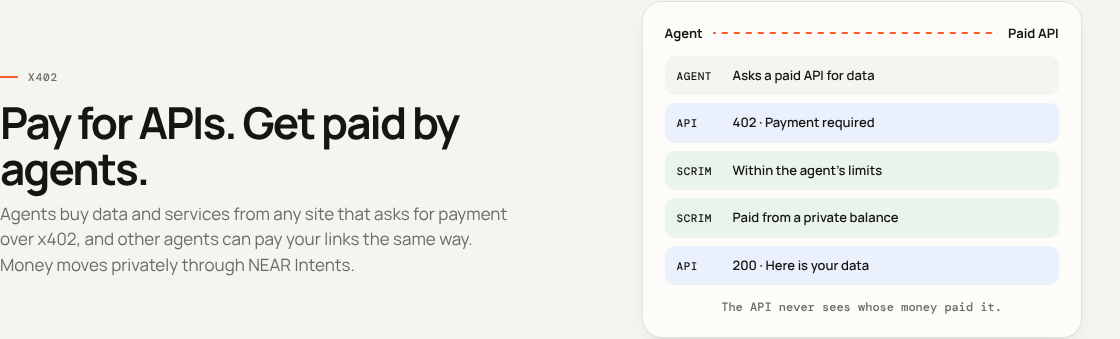
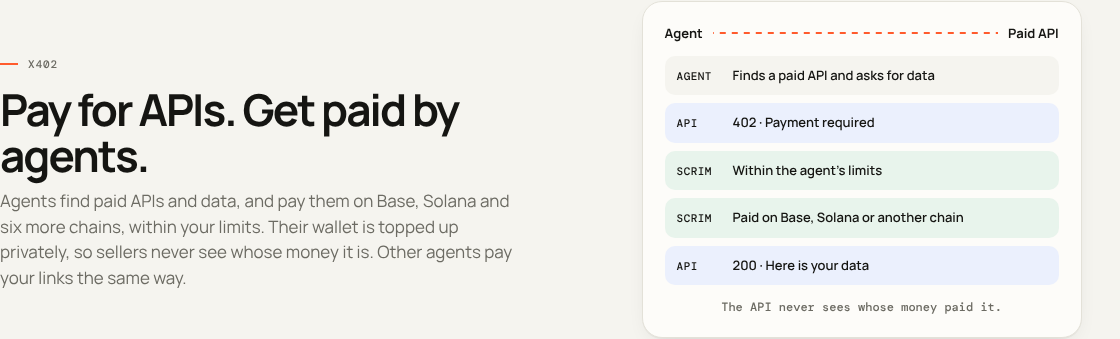
Homepage: Ask section and animation, x402 for any seller; README: Ask, new screenshots

diff --git a/app/page.tsx b/app/page.tsx
@@ -1,7 +1,7 @@
 import Link from "next/link";
 import { catalog } from "@/server/assets";
 import { FlowDemo } from "@/components/landing/FlowDemo";
-import { HeroCard, PaidScene, ProofScene, SendScene, SwapScene, TeamScene, AgentScene, X402Scene } from "@/components/landing/Scenes";
+import { AskScene, HeroCard, PaidScene, ProofScene, SendScene, SwapScene, TeamScene, AgentScene, X402Scene } from "@/components/landing/Scenes";
 import { Reveal } from "@/components/landing/Reveal";
 
 export const revalidate = 300;
@@ -21,6 +21,7 @@ export default async function Home() {
           <a href="#features">Features</a>
           <a href="#teams">Teams</a>
           <a href="#agents">Agents</a>
+          <a href="#ask">Ask</a>
           <a href="#proofs">Proofs</a>
           <a href="#questions">FAQ</a>
         </nav>
@@ -82,7 +83,13 @@ export default async function Home() {
         <section className="section l-story" id="agents">
           <div className="wrap">
             <Row eyebrow="Agents" title="Let software pay. Within your rules." text="Give an agent its own key and spending limits. It asks and people approve, or it pays by itself from a wallet of its own. Anything outside the limits is stopped." flip><AgentScene /></Row>
-            <Row eyebrow="x402" title="Pay for APIs. Get paid by agents." text="Agents buy data and services from any site that asks for payment over x402, and other agents can pay your links the same way. Money moves privately through NEAR Intents."><X402Scene /></Row>
+            <Row eyebrow="x402" title="Pay for APIs. Get paid by agents." text="Agents find paid APIs and data, and pay them on Base, Solana and six more chains, within your limits. Their wallet is topped up privately, so sellers never see whose money it is. Other agents pay your links the same way."><X402Scene /></Row>
+          </div>
+        </section>
+
+        <section className="section l-story" id="ask">
+          <div className="wrap">
+            <Row eyebrow="Ask" title="Ask your money. Nobody else hears it." text="Ask about your payments in plain words. AI answers inside NEAR AI's secure hardware, and every answer is signed and checked. Scrim keeps no copy." flip><AskScene /></Row>
           </div>
         </section>
 
@@ -106,6 +113,7 @@ export default async function Home() {
               <details><summary>Does Scrim hold my money?</summary><p>No. Only your wallet can move it.</p></details>
               <details><summary>Can I try it free?</summary><p>Yes, on testnet. Private money runs on mainnet only.</p></details>
               <details><summary>Can AI agents use it?</summary><p>Yes. Each agent gets its own key and limits. Your team approves what it asks to pay, or you let it pay by itself from its own wallet. Agents can also pay for APIs and pay your links over x402.</p></details>
+              <details><summary>Is the AI private?</summary><p>Yes. Ask runs on NEAR AI Cloud&apos;s confidential hardware. Scrim checks each answer&apos;s signature against that hardware&apos;s attestation, and stores neither your question nor the answer.</p></details>
               <details><summary>What does it cost?</summary><p>Free to open. Network fees are shown before you confirm.</p></details>
             </div>
           </div>

diff --git a/src/components/landing/Scenes.tsx b/src/components/landing/Scenes.tsx
@@ -162,10 +162,10 @@ export function AgentScene() {
 /* x402: an agent calls a paid API, gets "402 Payment Required", Scrim checks its limits, pays privately, and the API answers. */
 export function X402Scene() {
   const steps = [
-    { from: "agent", text: "Asks a paid API for data" },
+    { from: "agent", text: "Finds a paid API and asks for data" },
     { from: "api", text: "402 · Payment required" },
     { from: "scrim", text: "Within the agent's limits" },
-    { from: "scrim", text: "Paid from a private balance" },
+    { from: "scrim", text: "Paid on Base, Solana or another chain" },
     { from: "api", text: "200 · Here is your data" },
   ];
   const { ref, step } = useLoop(steps.length + 2, 1000);
@@ -180,6 +180,25 @@ export function X402Scene() {
         ))}
       </ol>
       <div className={`sc-x402-foot ${step >= steps.length - 1 ? "on" : ""}`}>The API never sees whose money paid it.</div>
+    </div>
+  );
+}
+
+/* Ask: a question goes into secure hardware with your records, an answer comes out, its signature is checked. */
+export function AskScene() {
+  const steps = ["Your records, sealed", "Answered inside secure hardware", "Signature checked"];
+  const { ref, step } = useLoop(steps.length + 3, 1000);
+  return (
+    <div ref={ref} className="sc-card sc-ask">
+      <div className={`sc-ask-q ${step >= 0 ? "on" : ""}`}>What did we pay suppliers this month?</div>
+      <div className={`sc-ask-box ${step >= 1 && step <= 2 ? "busy" : ""}`} aria-hidden="true">
+        <span className="sc-ask-lock">⬡</span>
+        <b>NEAR AI · secure hardware</b>
+      </div>
+      <ol>
+        {steps.map((s, i) => <li key={s} className={step > i ? "on" : ""}><span>✓</span>{s}</li>)}
+      </ol>
+      <div className={`sc-stamp ${step > steps.length ? "on" : ""}`}>Verified</div>
     </div>
   );
 }

diff --git a/app/globals.css b/app/globals.css
@@ -867,3 +867,19 @@ button.chip.on { background: var(--ink); color: #fff; border-color: var(--ink); 
 .sc-x402-foot { font: 500 12px var(--mono); color: var(--muted); text-align: center; opacity: 0; transition: opacity .4s; }
 .sc-x402-foot.on { opacity: 1; }
 @media (prefers-reduced-motion: reduce) { .sc-x402 li { opacity: 1; transform: none; } .sc-x402-foot { opacity: 1; } .sc-x402-ends i { animation: none; } }
+
+/* Ask scene */
+.sc-ask { gap: 12px; position: relative; }
+.sc-ask-q { justify-self: end; max-width: 85%; padding: 10px 14px; border-radius: 14px 14px 4px 14px; background: var(--ink); color: #fff; font-size: 14px; font-weight: 600; opacity: .3; transition: opacity .4s; }
+.sc-ask-q.on { opacity: 1; }
+.sc-ask-box { display: flex; align-items: center; gap: 10px; padding: 14px; border-radius: 12px; background: var(--paper); border: 1px dashed var(--line-2); font-size: 13px; }
+.sc-ask-lock { display: grid; place-items: center; width: 30px; height: 30px; border-radius: 8px; background: var(--ink); color: var(--orange); }
+.sc-ask-box.busy { border-color: var(--orange); }
+.sc-ask-box.busy .sc-ask-lock { animation: pulse 1s ease-in-out infinite; }
+.sc-ask ol { list-style: none; margin: 0; padding: 0; display: grid; gap: 6px; }
+.sc-ask li { display: flex; gap: 8px; align-items: center; font-size: 13px; font-weight: 600; color: var(--muted); opacity: .35; transition: opacity .35s, color .35s; }
+.sc-ask li span { display: grid; place-items: center; width: 18px; height: 18px; border-radius: 50%; background: var(--paper-2); font-size: 11px; }
+.sc-ask li.on { opacity: 1; color: var(--ink); }
+.sc-ask li.on span { background: var(--green-wash); color: var(--green); }
+@media (prefers-reduced-motion: reduce) { .sc-ask-q, .sc-ask li { opacity: 1; } }
+.sc-ask .sc-stamp { top: auto; bottom: 18px; }

diff --git a/README.md b/README.md
@@ -6,7 +6,7 @@
 
 **Private money for people and businesses, on NEAR.**
 
-Hold, send, swap and get paid, and only you see it. Scrim gives you a private balance on top of [NEAR Intents](https://near-intents.org). Add money from almost any chain, pay anyone on any chain, and prove a single fact to a single person when someone asks. Teams get approvals and spending limits. Software agents can ask to pay within rules people control, or pay by themselves from a wallet of their own.
+Hold, send, swap and get paid, and only you see it. Scrim gives you a private balance on top of [NEAR Intents](https://near-intents.org). Add money from almost any chain, pay anyone on any chain, and prove a single fact to a single person when someone asks. Teams get approvals and spending limits. Software agents can ask to pay within rules people control, or pay by themselves from a wallet of their own, including for paid APIs over x402. And you can ask about your money in plain words, answered by private AI on NEAR AI Cloud.
 
 Scrim never holds your keys or your money. You sign in with your own NEAR wallet and approve every move yourself.
 
@@ -108,9 +108,10 @@ Choose a network when you sign in. Everything shown is real data from the networ
 | Agents that pay by themselves (own wallet) | ✅ NEAR | ✅ USDC |
 | Real NEAR transfers, checked on-chain | ✅ | ✅ |
 | Activity, read from the chain | ✅ | ✅ |
+| Ask about your money (private AI) | ✅ | ✅ |
 | Private balance, add money, send, swap | — | ✅ |
 | Payment links and proofs | — | ✅ |
-| x402: buy from paid APIs, get paid by agents | — | ✅ |
+| x402: find and buy paid APIs, get paid by agents | — | ✅ |
 | Private agent wallets | — | ✅ |
 
 The private features need NEAR Intents, which only exists on mainnet. On testnet those screens say so plainly. The recommended path is to try Scrim on testnet first, then move to mainnet with a separate account and small amounts.
@@ -145,9 +146,13 @@ flowchart LR
 
 **Ask your money (NEAR AI Cloud).** The Ask screen sends your question and your own records (balances, payments, team requests, wallet transactions) to a model running in NEAR AI Cloud's confidential hardware (Intel TDX and NVIDIA confidential GPUs). Before asking, Scrim fetches the model's attestation report with a fresh nonce. After, it checks the answer's signature over the exact request and response bytes, and that the signing key is the one the report names. Scrim keeps no copy of the question or the answer. Set `NEARAI_API_KEY` (and optionally `NEARAI_MODEL`) to switch it on.
 
+<p align="center"><img src="docs/images/ask-scene.png" alt="Ask: a question goes into NEAR AI's secure hardware with your records, the answer's signature is checked" width="720"></p>
+
+<p align="center"><img src="docs/images/ask.png" alt="The Ask screen with suggested questions" width="720"></p>
+
 ### Where the data comes from
 
-Coins, prices, logos and networks come live from NEAR Intents and CoinGecko. Testnet balances come from the NEAR RPC and FastNEAR, and Activity reads each wallet's transactions from FastNEAR's transaction index. Nothing is hardcoded.
+Coins, prices, logos and networks come live from NEAR Intents and CoinGecko. Paid APIs come from Coinbase's public x402 catalog, and Ask's answers from NEAR AI Cloud. Testnet balances come from the NEAR RPC and FastNEAR, and Activity reads each wallet's transactions from FastNEAR's transaction index. Nothing is hardcoded.
 
 ## Run it yourself
 
@@ -261,6 +266,7 @@ Tools: `get_limits`, `request_payment`, `find_paid_apis`, `pay_x402`, `list_paym
 - **Webhooks** are signed, public-address-only (checked again at send time), and never follow redirects.
 - **Rate limits** apply per client on every route, with stricter limits on sign-in, payment links and agent keys.
 - **Responses are never cached**, and browser-originated changes must come from the same origin.
+- **Private AI answers are checked.** Before asking, Scrim fetches NEAR AI's attestation report with a fresh nonce; after, it verifies the answer's signature over the exact bytes and that the key is the attested one. Questions and answers are not stored.
 - **Agent wallet keys never reach Scrim.** They are created and kept in OutLayer's secure enclave (Intel TDX); Scrim keeps only a sealed access key, and the owner's on-chain spending rules apply on top of Scrim's limits.
 - **Your keys stay in your wallet.** Scrim never sees them, and the private ledger is run by NEAR Intents.
 
@@ -299,6 +305,8 @@ GitHub Actions runs type check, unused-code check, tests and build on every push
 - Team rules enforced on-chain
 - Contract-wallet sign-in
 - A shielded pool of its own
+- Buying from x402 sellers that take a request body (POST)
+- Ask that can draft a payment for you to approve
 
 ## Contributing
 
